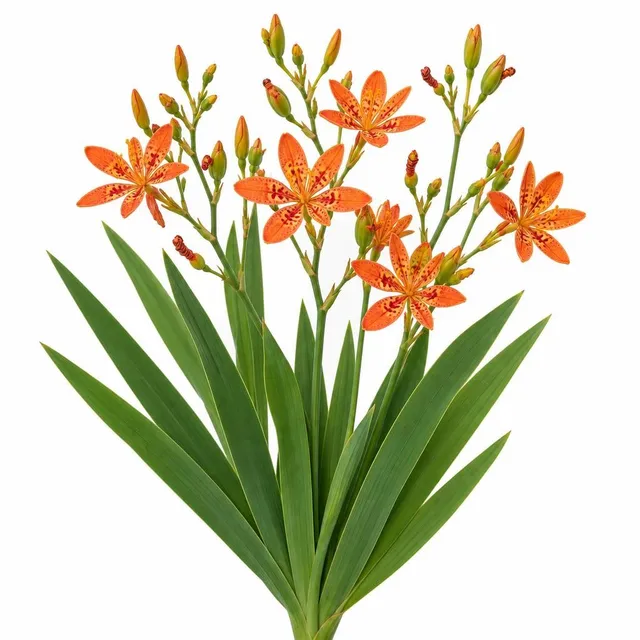
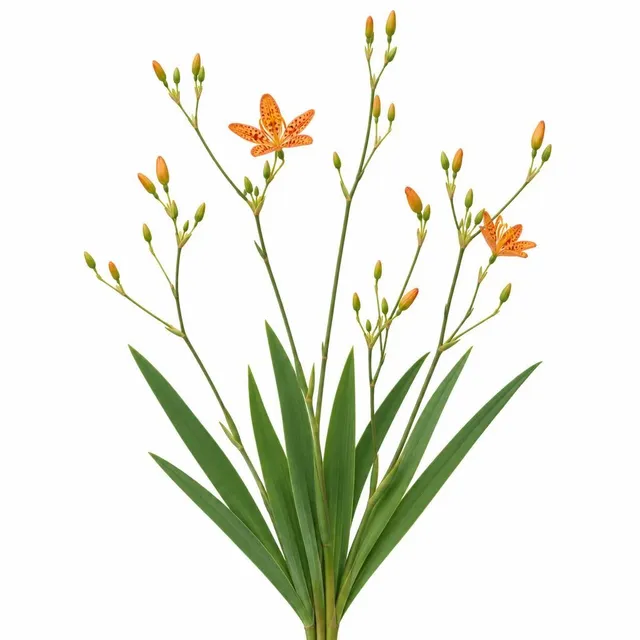
Belamcanda picture closer to what the supplier sells (1.0.2)
Redrawn from a new description: thin airy stems with mostly buds and only
one or two open flowers, as the stems are sold, instead of a plant in full
bloom.

diff --git a/src/version.ts b/src/version.ts
@@ -1,1 +1,1 @@
-export const APP_VERSION = '1.0.1';
+export const APP_VERSION = '1.0.2';
